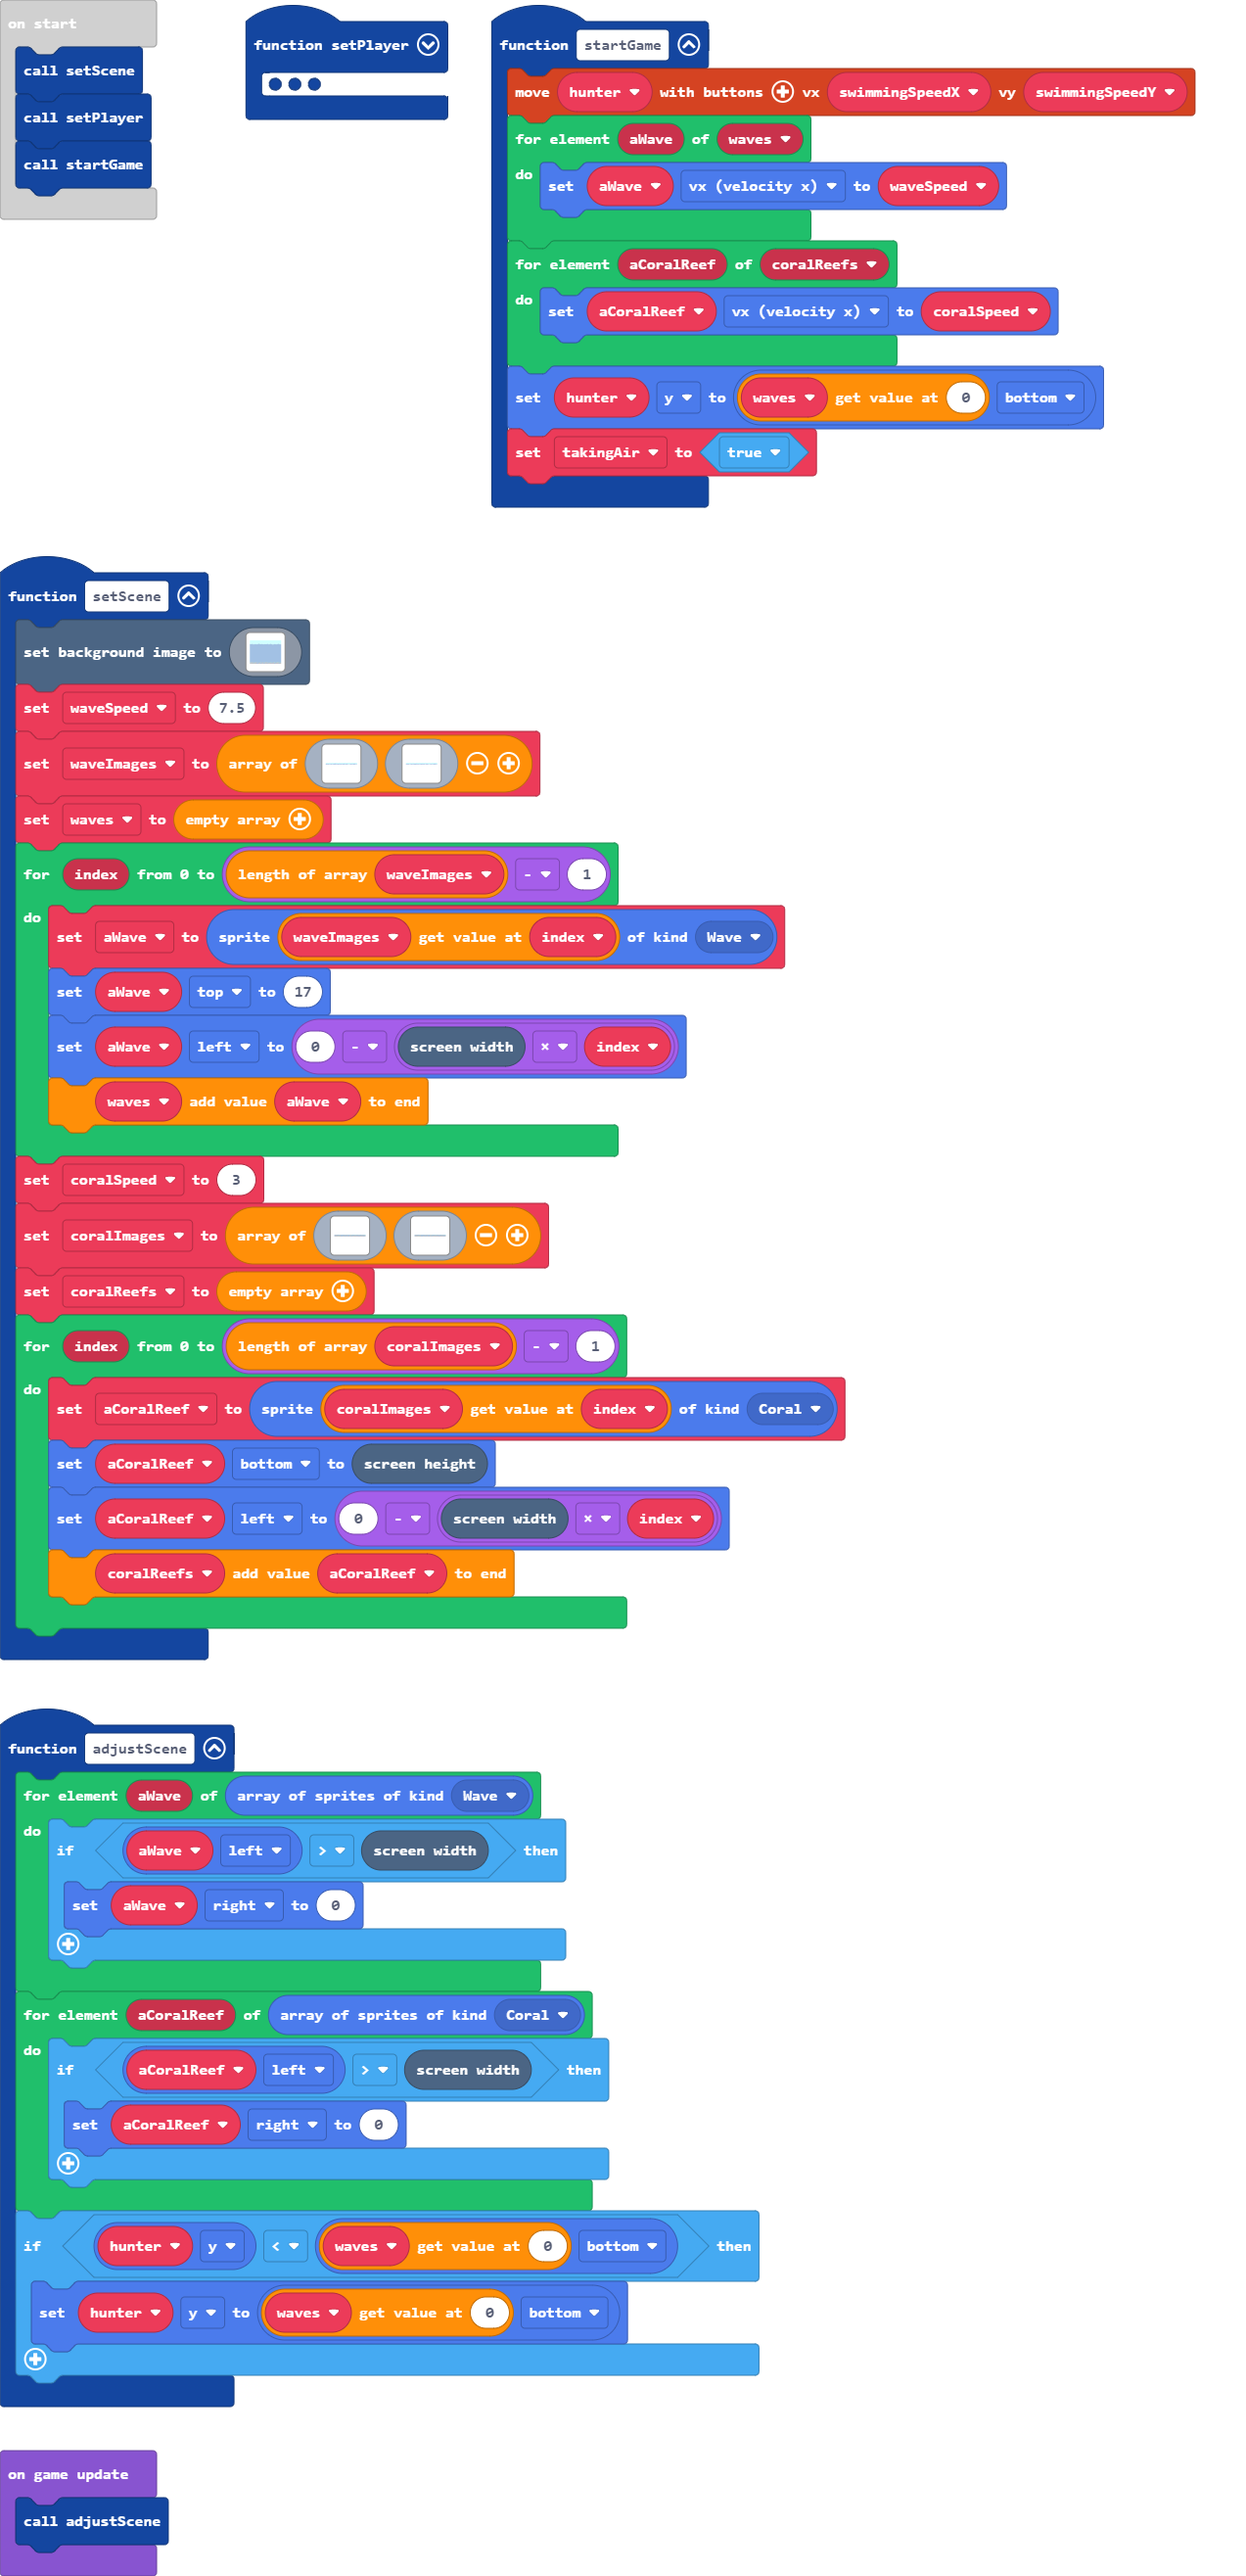
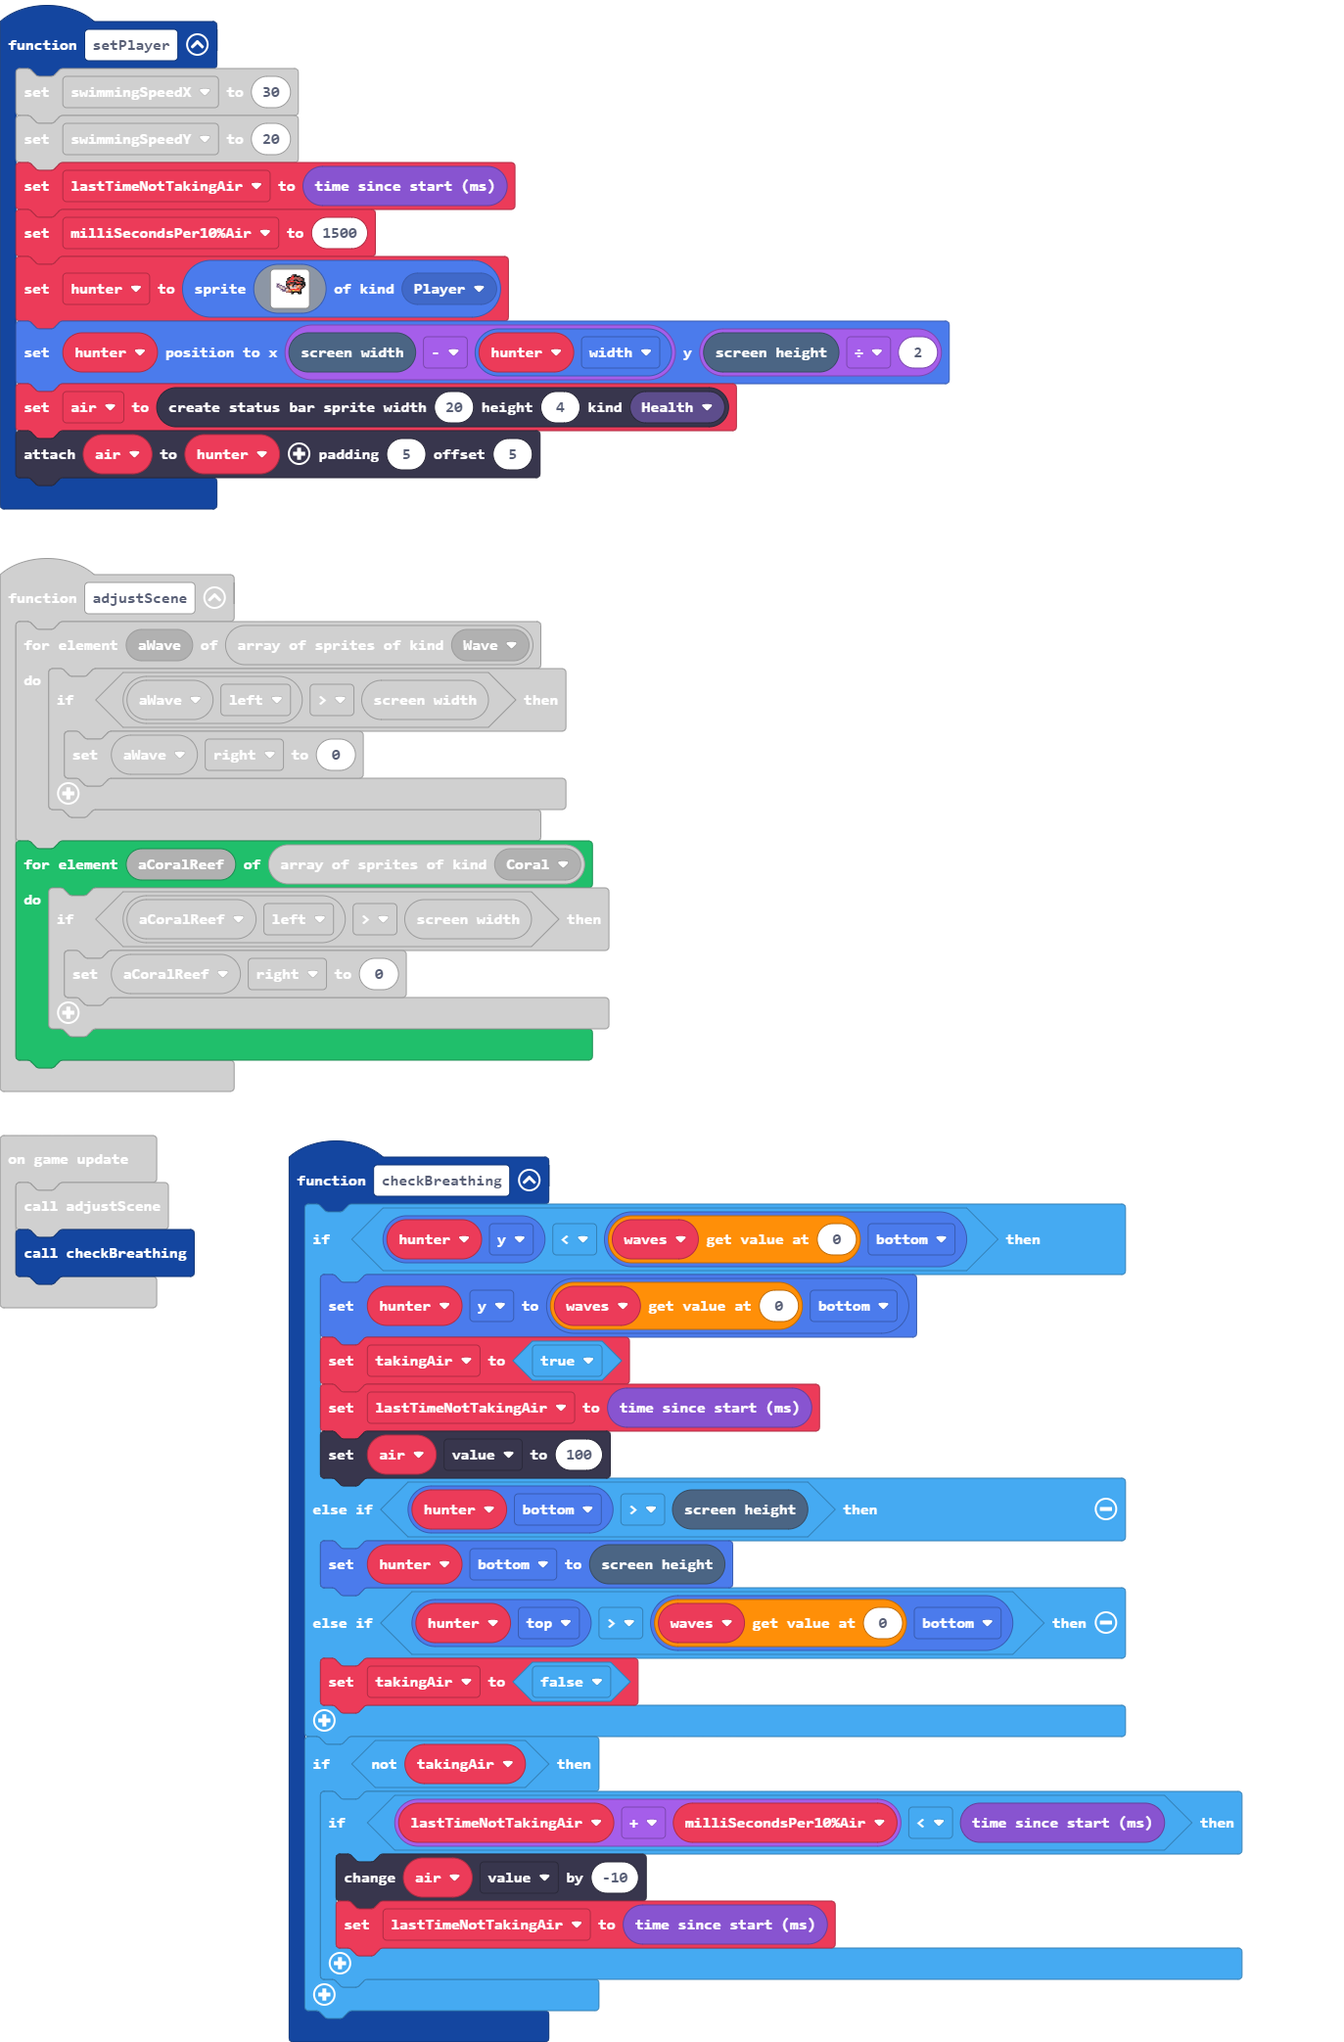
Breathing via status bar

diff --git a/main.ts b/main.ts
@@ -5,6 +5,8 @@ namespace SpriteKind {
 function setPlayer () {
     swimmingSpeedX = 30
     swimmingSpeedY = 20
+    lastTimeNotTakingAir = game.runtime()
+    milliSecondsPer10Air = 1500
     hunter = sprites.create(img`
         ........................
         ..............fff.......
@@ -32,6 +34,8 @@ function setPlayer () {
         ........................
         `, SpriteKind.Player)
     hunter.setPosition(scene.screenWidth() - hunter.width, scene.screenHeight() / 2)
+    air = statusbars.create(20, 4, StatusBarKind.Health)
+    air.attachToSprite(hunter, 5, 5)
 }
 function startGame () {
     controller.moveSprite(hunter, swimmingSpeedX, swimmingSpeedY)
@@ -55,8 +59,23 @@ function adjustScene () {
             aCoralReef.right = 0
         }
     }
+}
+function checkBreathing () {
     if (hunter.y < waves[0].bottom) {
         hunter.y = waves[0].bottom
+        takingAir = true
+        lastTimeNotTakingAir = game.runtime()
+        air.value = 100
+    } else if (hunter.bottom > scene.screenHeight()) {
+        hunter.bottom = scene.screenHeight()
+    } else if (hunter.top > waves[0].bottom) {
+        takingAir = false
+    }
+    if (!(takingAir)) {
+        if (lastTimeNotTakingAir + milliSecondsPer10Air < game.runtime()) {
+            air.value += -10
+            lastTimeNotTakingAir = game.runtime()
+        }
     }
 }
 function setScene () {
@@ -252,7 +271,10 @@ let coralSpeed = 0
 let coralReefs: Sprite[] = []
 let waveSpeed = 0
 let waves: Sprite[] = []
+let air: StatusBarSprite = null
 let hunter: Sprite = null
+let milliSecondsPer10Air = 0
+let lastTimeNotTakingAir = 0
 let swimmingSpeedY = 0
 let swimmingSpeedX = 0
 setScene()
@@ -260,4 +282,5 @@ setPlayer()
 startGame()
 game.onUpdate(function () {
     adjustScene()
+    checkBreathing()
 })
